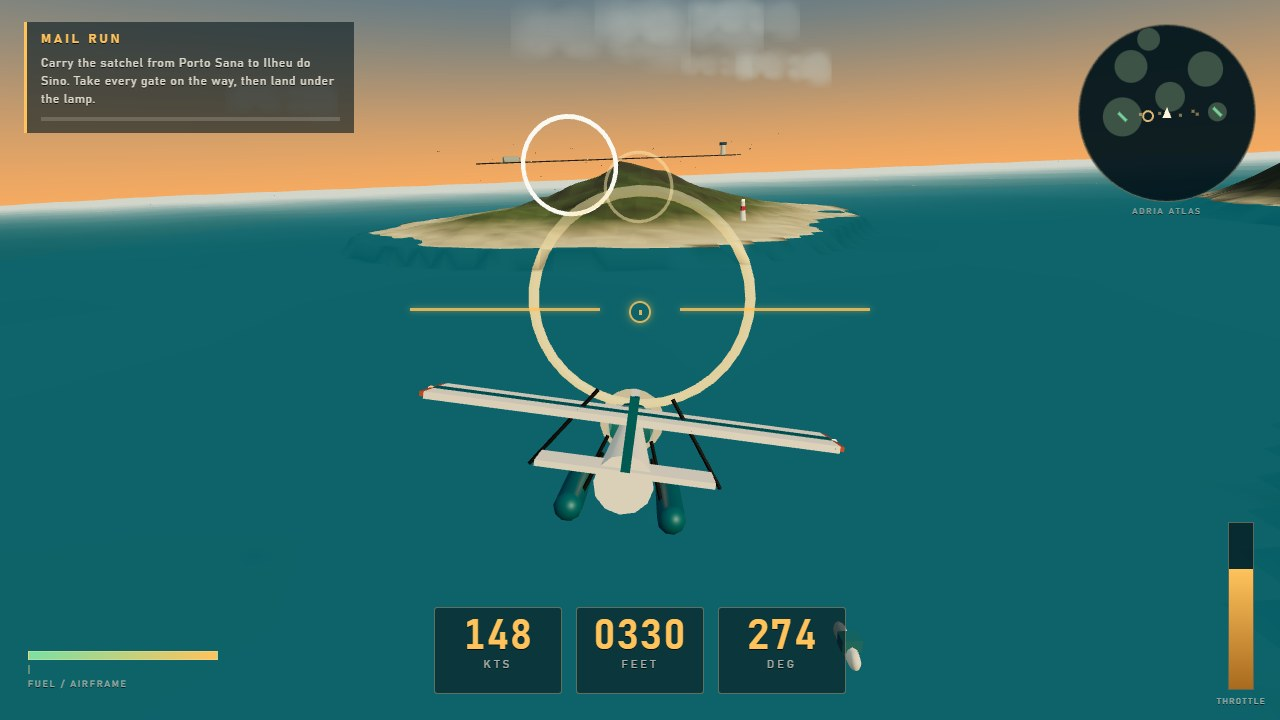
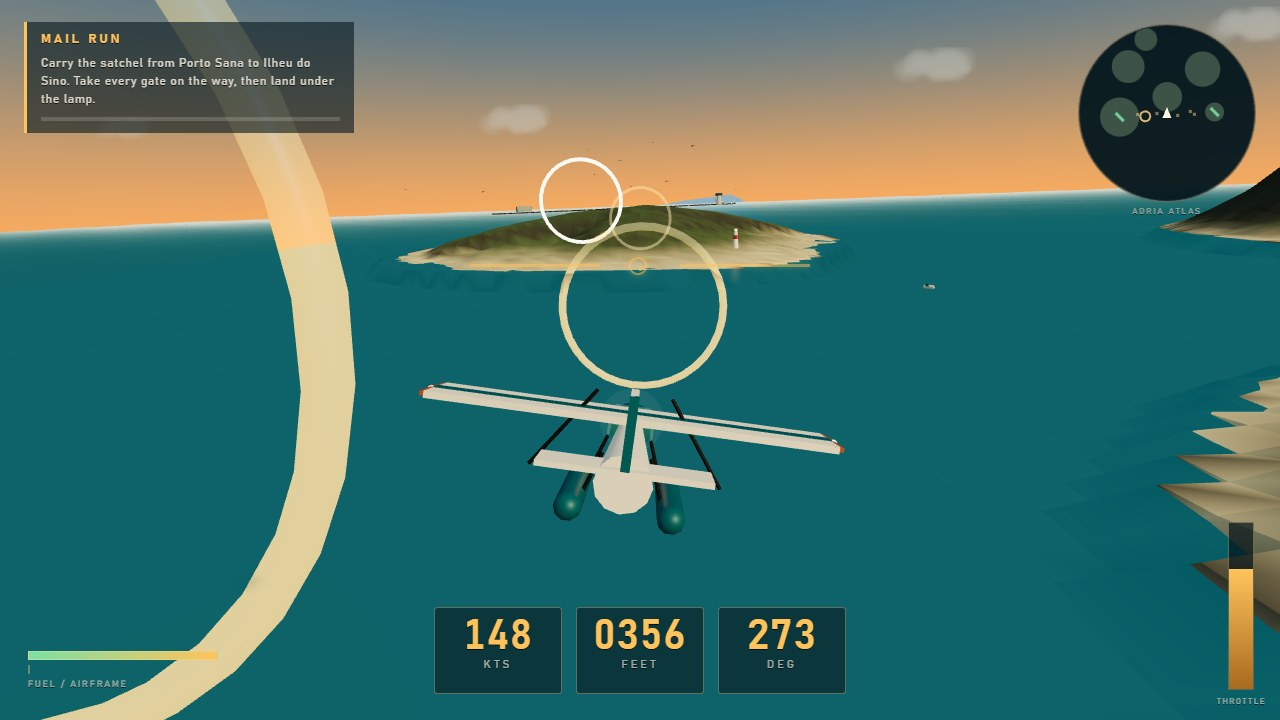
Cockpit shell and panel, levelled airstrip shelves, PAPI and threshold lamps, cleaner shot framing

diff --git a/game/src/shots.js b/game/src/shots.js
@@ -29,29 +29,33 @@ export const SHOTS = {
   cover: ({ course }) => {
     const gate = course?.gates[1] ?? course?.gates[0] ?? null;
     if (!gate) return { kind: 'courier' };
-    const from = behindGate(gate, 268, 34);
-    const pose = aim(from, gate.position.clone().add(new THREE.Vector3(0, -6, 0)), { roll: -0.18, pitch: 0.03 });
+    const from = behindGate(gate, 330, 58);
+    const pose = aim(from, gate.position.clone().add(new THREE.Vector3(0, 12, 0)), { roll: -0.1, pitch: 0.02 });
     return { ...pose, speed: 79, throttle: 0.83, camera: 'chase', kind: 'courier' };
   },
 
   // Final approach: the lamp, the numbers and the strip filling the windscreen.
   approach: ({ strips }) => {
-    const strip = strips?.[1];
+    const strip = strips?.[0];
     if (!strip) return { kind: 'medevac' };
     const pad = airstripPad(strip);
     const heading = strip.heading;
-    const from = new THREE.Vector3(strip.x - Math.sin(heading) * 760, pad + 62, strip.z - Math.cos(heading) * 760);
-    const to = new THREE.Vector3(strip.x, pad, strip.z);
-    const pose = aim(from, to, { roll: 0.1, pitch: -0.05 });
-    return { ...pose, speed: 56, throttle: 0.48, camera: 'chase', kind: 'medevac' };
+    // Approach from whichever end runs downhill to the sea, so the strip reads against water.
+    const endA = new THREE.Vector3(strip.x + Math.sin(heading) * (strip.length / 2 + 250), 0, strip.z + Math.cos(heading) * (strip.length / 2 + 250));
+    const endB = new THREE.Vector3(strip.x - Math.sin(heading) * (strip.length / 2 + 250), 0, strip.z - Math.cos(heading) * (strip.length / 2 + 250));
+    const from = groundAt(endA.x, endA.z) < groundAt(endB.x, endB.z) ? endA : endB;
+    from.y = pad + 26;
+    const to = new THREE.Vector3(strip.x, pad + 3, strip.z);
+    const pose = aim(from, to, { roll: 0.05, pitch: -0.03 });
+    return { ...pose, speed: 56, throttle: 0.46, camera: 'cockpit', kind: 'medevac' };
   },
 
   // The caldera run: low over the ash with the gate ahead and flak hanging in the air.
   ridge: ({ course }) => {
     const gate = pickLowGate(course, 2) ?? null;
     if (!gate) return { kind: 'survey' };
-    const from = behindGate(gate, 300, 84);
-    const pose = aim(from, gate.position.clone().add(new THREE.Vector3(0, -10, 0)), { roll: 0.2, pitch: 0.05 });
+    const from = behindGate(gate, 420, 128);
+    const pose = aim(from, gate.position.clone().add(new THREE.Vector3(0, 16, 0)), { roll: 0.18, pitch: 0.03 });
     return { ...pose, speed: 84, throttle: 0.95, camera: 'chase', kind: 'survey' };
   },
 
@@ -59,7 +63,7 @@ export const SHOTS = {
   cliffs: ({ course }) => {
     const gate = course?.gates[5] ?? course?.gates[4] ?? null;
     if (!gate) return { kind: 'courier' };
-    const from = behindGate(gate, 232, 46);
+    const from = behindGate(gate, 320, 54);
     const pose = aim(from, gate.position.clone().add(new THREE.Vector3(0, -14, 0)), { roll: -0.17, pitch: 0.02 });
     return { ...pose, speed: 76, throttle: 0.72, camera: 'chase', kind: 'courier' };
   },

diff --git a/game/src/render/cockpit.js b/game/src/render/cockpit.js
@@ -1,0 +1,66 @@
+// The cockpit shell: a glare shield, canopy frame and a lit instrument panel that hangs on the
+// camera itself, so the cockpit view is flown from inside a machine and never from empty air.
+
+import * as THREE from 'three';
+
+export function buildCockpit() {
+  const group = new THREE.Group();
+  group.position.set(0, 0, 0);
+
+  const shell = new THREE.MeshStandardMaterial({ color: '#3c464c', roughness: 0.7, metalness: 0.2, side: THREE.DoubleSide });
+  const trim = new THREE.MeshStandardMaterial({ color: '#151b1d', roughness: 0.55, metalness: 0.4 });
+  const panelFluoro = new THREE.MeshStandardMaterial({ color: '#121a1c', emissive: '#7d4a16', emissiveIntensity: 0.42, roughness: 0.6 });
+
+  // Glare shield and dash.
+  const shield = new THREE.Mesh(new THREE.BoxGeometry(1.06, 0.1, 0.34), trim);
+  shield.position.set(0, -0.36, -0.66);
+  shield.rotation.x = 0.24;
+  const dash = new THREE.Mesh(new THREE.BoxGeometry(1.02, 0.34, 0.3), shell);
+  dash.position.set(0, -0.6, -0.74);
+  dash.rotation.x = 0.36;
+  const panel = new THREE.Mesh(new THREE.BoxGeometry(0.62, 0.19, 0.06), panelFluoro);
+  panel.position.set(0, -0.49, -0.6);
+  panel.rotation.x = 0.5;
+  group.add(shield, dash, panel);
+
+  // Six lit dials on the panel, and the switch row under them.
+  const dialGeo = new THREE.CircleGeometry(0.03, 14);
+  const dialLit = new THREE.MeshBasicMaterial({ color: '#ffd79a' });
+  for (let i = 0; i < 6; i++) {
+    const dial = new THREE.Mesh(dialGeo, dialLit);
+    dial.position.set(-0.22 + i * 0.088, -0.462, -0.575);
+    dial.rotation.x = 0.5;
+    group.add(dial);
+    const needle = new THREE.Mesh(new THREE.BoxGeometry(0.004, 0.03, 0.001), new THREE.MeshBasicMaterial({ color: '#38240f' }));
+    needle.position.set(-0.22 + i * 0.088, -0.457, -0.573);
+    needle.rotation.x = 0.5;
+    needle.rotation.z = (i - 2.5) * 0.5;
+    group.add(needle);
+  }
+  const switchRow = new THREE.Mesh(new THREE.BoxGeometry(0.5, 0.04, 0.02), new THREE.MeshBasicMaterial({ color: '#6d2c1c' }));
+  switchRow.position.set(0, -0.6, -0.66);
+  switchRow.rotation.x = 0.5;
+  group.add(switchRow);
+
+  // Canopy frame: a windscreen post each side and a header over the glass.
+  const postGeo = new THREE.BoxGeometry(0.05, 0.9, 0.05);
+  for (const side of [-1, 1]) {
+    const post = new THREE.Mesh(postGeo, trim);
+    post.position.set(side * 0.52, 0.1, -0.3);
+    post.rotation.z = side * 0.22;
+    group.add(post);
+  }
+  const header = new THREE.Mesh(new THREE.BoxGeometry(0.92, 0.055, 0.06), trim);
+  header.position.set(0, 0.6, -0.34);
+  group.add(header);
+
+  // Panel glow so the cockpit is the brightest thing at dusk.
+  const glow = new THREE.PointLight('#ffb469', 1.5, 2.2, 2);
+  glow.position.set(0, -0.42, -0.62);
+  group.add(glow);
+
+  group.traverse((child) => {
+    if (child.isMesh) child.renderOrder = 2;
+  });
+  return group;
+}

diff --git a/game/src/terrain/buildIslands.js b/game/src/terrain/buildIslands.js
@@ -95,7 +95,7 @@ export function animateSea(sea, time) {
 
 // Where a strip's tarmac actually sits, so the camera and the spawn agree with the mesh.
 export function airstripPad(strip) {
-  return Math.max(6, groundAt(strip.x, strip.z)) + 1.4;
+  return strip.pad + 1.4;
 }
 
 function buildAirstrip(strip) {
@@ -112,10 +112,10 @@ function buildAirstrip(strip) {
   asphalt.receiveShadow = true;
   group.add(asphalt);
 
-  const dash = new THREE.MeshStandardMaterial({ color: '#e8e2cf', roughness: 0.8 });
+  const dash = new THREE.MeshStandardMaterial({ color: '#f2ecd8', roughness: 0.75, emissive: '#5a5238', emissiveIntensity: 0.4 });
   const edge = new THREE.MeshStandardMaterial({ color: '#cfc39f', emissive: '#6a5c33', emissiveIntensity: 0.5 });
   for (let i = -strip.length / 2 + 26; i < strip.length / 2 - 20; i += 46) {
-    const mark = new THREE.Mesh(new THREE.BoxGeometry(2.6, 0.2, 20), dash);
+    const mark = new THREE.Mesh(new THREE.BoxGeometry(3.4, 0.22, 26), dash);
     mark.position.set(0, 0.9, i);
     group.add(mark);
   }
@@ -126,6 +126,29 @@ function buildAirstrip(strip) {
       group.add(light);
     }
   }
+
+  // PAPI bars off the threshold: two white, two red, the way a real approach reads.
+  const papiWhite = new THREE.MeshStandardMaterial({ color: '#fff6dd', emissive: '#ffeec4', emissiveIntensity: 3.2 });
+  const papiRed = new THREE.MeshStandardMaterial({ color: '#ff6b4a', emissive: '#ff3d20', emissiveIntensity: 3.2 });
+  for (let i = 0; i < 4; i++) {
+    const bar = new THREE.Mesh(new THREE.BoxGeometry(4.4, 1.5, 1.6), i < 2 ? papiWhite : papiRed);
+    bar.position.set(-strip.width / 2 - 12, 1.4, -strip.length / 2 + 18 + i * 6.4);
+    group.add(bar);
+  }
+  // Threshold masts: the pair of lamps a pilot aims between.
+  for (const side of [-1, 1]) {
+    const mast = new THREE.Mesh(new THREE.CylinderGeometry(0.7, 0.9, 6, 6), new THREE.MeshStandardMaterial({ color: '#3a474b', roughness: 0.8 }));
+    mast.position.set(side * strip.width * 0.7, 3, -strip.length / 2 + 9);
+    const lamp = new THREE.Mesh(new THREE.SphereGeometry(1.5, 10, 8), new THREE.MeshStandardMaterial({ color: '#fffbe9', emissive: '#fff2c8', emissiveIntensity: 4 }));
+    lamp.position.set(side * strip.width * 0.7, 6.4, -strip.length / 2 + 9);
+    const beam = new THREE.PointLight('#fff0c0', 90, 320, 2);
+    beam.position.copy(lamp.position);
+    group.add(mast, lamp, beam);
+  }
+
+  const threshold = new THREE.Mesh(new THREE.BoxGeometry(strip.width, 0.2, 3), new THREE.MeshStandardMaterial({ color: '#e8e2cf', emissive: '#8a805f', emissiveIntensity: 0.4 }));
+  threshold.position.set(0, 0.85, -strip.length / 2 + 12);
+  group.add(threshold);
 
   const towerBase = new THREE.Mesh(
     new THREE.CylinderGeometry(5, 6.6, 22, 10),

diff --git a/game/src/main.js b/game/src/main.js
@@ -4,6 +4,7 @@ import * as THREE from 'three';
 import { PLAY, MISSION_KINDS } from './config.js';
 import { createRenderer, buildSky, applyCameraSettings } from './render/scene.js';
 import { createCameraRig } from './render/cameras.js';
+import { buildCockpit } from './render/cockpit.js';
 import { buildTerrain, animateSea, airstripPad } from './terrain/buildIslands.js';
 import { AIRSTRIPS, ISLANDS, groundAt } from './terrain/heightfield.js';
 import { buildPlane } from './aircraft/buildPlane.js';
@@ -30,6 +31,10 @@ const sea = terrain.children.find((child) => child.userData?.wave);
 const traffic = buildTraffic(scene);
 const threat = createThreat(scene);
 const rig = createCameraRig(camera);
+const cockpit = buildCockpit();
+scene.add(camera);
+camera.add(cockpit);
+cockpit.visible = false;
 const screens = createScreens();
 const audio = createAudio();
 
@@ -180,6 +185,8 @@ function frame() {
     if (state === 'flying') plane.update(dt, readInput());
     else plane.update(dt, inputIdle);
     rig.update(plane, dt, plane.speed / 140);
+    cockpit.visible = rig.mode === 'cockpit';
+    plane.mesh.visible = rig.mode !== 'cockpit';
     traffic.update(time, dt);
     animateSea(sea, time);
     if (state === 'flying') rules(dt);
@@ -197,6 +204,8 @@ function frame() {
     traffic.update(time, dt);
     animateSea(sea, time);
     rig.update(plane, dt, 0.5, true);
+    cockpit.visible = rig.mode === 'cockpit';
+    plane.mesh.visible = rig.mode !== 'cockpit';
     if (hud && time - lastHudPaint > 0.06) {
       lastHudPaint = time;
       hud.refresh(plane, course, course.passed, course.gates.length);

diff --git a/game/src/terrain/heightfield.js b/game/src/terrain/heightfield.js
@@ -62,9 +62,10 @@ export const ISLANDS = [
   { name: 'Serra Alta', x: -1180, z: -320, r: 520, h: 430 },
 ];
 
+// Airstrips sit on a levelled shelf that the heightfield itself carves, so a landing is a landing.
 export const AIRSTRIPS = [
-  { name: 'Porto Sana', x: -1450, z: 1280, heading: 0.42, length: 620, width: 44 },
-  { name: 'Ilheu do Sino', x: 1560, z: 1120, heading: -1.05, length: 480, width: 34 },
+  { name: 'Porto Sana', x: -1450, z: 1280, heading: 0.42, length: 620, width: 44, pad: 88 },
+  { name: 'Ilheu do Sino', x: 1560, z: 1120, heading: -1.05, length: 480, width: 34, pad: 112 },
 ];
 
 // The shape of one island at a point: 1 at the crown, 0 past the shore.
@@ -90,7 +91,22 @@ export function groundAt(x, z) {
     h = Math.max(h, island.h * cone - (island.volcano ? crown * island.h * 0.42 : 0));
   }
   if (h > 2) h += (fbm(x * 0.021, z * 0.021, 3) - 0.5) * 12;
+
+  for (const strip of AIRSTRIPS) {
+    const dx = x - strip.x;
+    const dz = z - strip.z;
+    const along = dx * Math.sin(strip.heading) + dz * Math.cos(strip.heading);
+    const across = dx * Math.cos(strip.heading) - dz * Math.sin(strip.heading);
+    const reachAlong = strip.length * 0.75;
+    const reachAcross = strip.width * 2.6;
+    const grip = Math.max(0, 1 - Math.max(Math.abs(along) / reachAlong, Math.abs(across) / reachAcross));
+    if (grip > 0) h = THREE_LERP(h, strip.pad, Math.pow(grip, 0.7));
+  }
   return h;
+}
+
+function THREE_LERP(a, b, t) {
+  return a + (b - a) * Math.min(1, Math.max(0, t));
 }
 
 export function isWater(x, z) {

diff --git a/game/ui/hud.css b/game/ui/hud.css
@@ -39,11 +39,11 @@ html, body {
 .pit-horizon {
   position: absolute;
   left: 50%;
-  top: 43%;
-  width: 460px;
+  top: 37%;
+  width: 340px;
   height: 300px;
-  margin: -130px 0 0 -230px;
-  opacity: 0.85;
+  margin: -120px 0 0 -170px;
+  opacity: 0.55;
 }
 .pit-horizon::before, .pit-horizon::after {
   content: "";
@@ -51,14 +51,14 @@ html, body {
   background: var(--amber);
   box-shadow: 0 0 6px rgba(255, 195, 92, 0.6);
 }
-.pit-horizon::before { left: 0; top: 128px; width: 190px; height: 3px; }
-.pit-horizon::after { right: 0; top: 128px; width: 190px; height: 3px; }
+.pit-horizon::before { left: 0; top: 118px; width: 130px; height: 3px; }
+.pit-horizon::after { right: 0; top: 118px; width: 130px; height: 3px; }
 .pit-horizon span {
   position: absolute;
   left: 50%;
-  top: 121px;
-  width: 22px;
-  height: 22px;
+  top: 111px;
+  width: 18px;
+  height: 18px;
   margin-left: -11px;
   border: 2px solid var(--amber);
   border-radius: 50%;

diff --git a/game/src/game/traffic.js b/game/src/game/traffic.js
@@ -13,12 +13,12 @@ export function buildTraffic(scene) {
     1.1, 0, 0, 0, 0.34, 0.5, 0, 0, -0.2,
   ]), 3));
   birdGeo.computeVertexNormals();
-  const birdMat = new THREE.MeshStandardMaterial({ color: '#2f2a24', roughness: 0.9, side: THREE.DoubleSide, flatShading: true });
+  const birdMat = new THREE.MeshStandardMaterial({ color: '#4a4038', roughness: 0.9, side: THREE.DoubleSide, flatShading: true, emissive: '#241d17', emissiveIntensity: 0.5 });
 
   for (let i = 0; i < PLAY.birdCount; i++) {
     const spot = randomSpot(20);
     const mesh = new THREE.Mesh(birdGeo, birdMat);
-    mesh.scale.setScalar(1.7 + Math.random() * 1.6);
+    mesh.scale.setScalar(2.8 + Math.random() * 2.4);
     mesh.position.set(spot.x, spot.h + 24 + Math.random() * 130, spot.z);
     scene.add(mesh);
     birds.push({ mesh, base: mesh.position.clone(), phase: Math.random() * Math.PI * 2, radius: 22 + Math.random() * 66, speed: 0.32 + Math.random() * 0.5 });

diff --git a/game/src/render/scene.js b/game/src/render/scene.js
@@ -121,7 +121,7 @@ export function buildSky(scene) {
   const clouds = new THREE.Group();
   for (let i = 0; i < 26; i++) {
     const sprite = new THREE.Sprite(cloudMaterial.clone());
-    const scale = 420 + Math.random() * 900;
+    const scale = 320 + Math.random() * 520;
     sprite.scale.set(scale, scale * 0.42, 1);
     sprite.position.set((Math.random() - 0.5) * WORLD.size * 2.4, 520 + Math.random() * 700, (Math.random() - 0.5) * WORLD.size * 2.4);
     sprite.material.opacity = 0.2 + Math.random() * 0.24;

diff --git a/game/src/config.js b/game/src/config.js
@@ -5,8 +5,8 @@ export const WORLD = {
   seaLevel: 0,
   grid: 200,           // heightfield resolution per side
   maxHeight: 620,
-  fogNear: 900,
-  fogFar: 4600,
+  fogNear: 1500,
+  fogFar: 7200,
   sunElevation: 0.19,  // golden hour
 };
 
@@ -34,7 +34,7 @@ export const PLAY = {
   ringRadius: 46,
   ringValue: 1,
   flakRange: 900,
-  birdCount: 90,
+  birdCount: 64,
   boatCount: 14,
   lodFar: 3400,
 };
